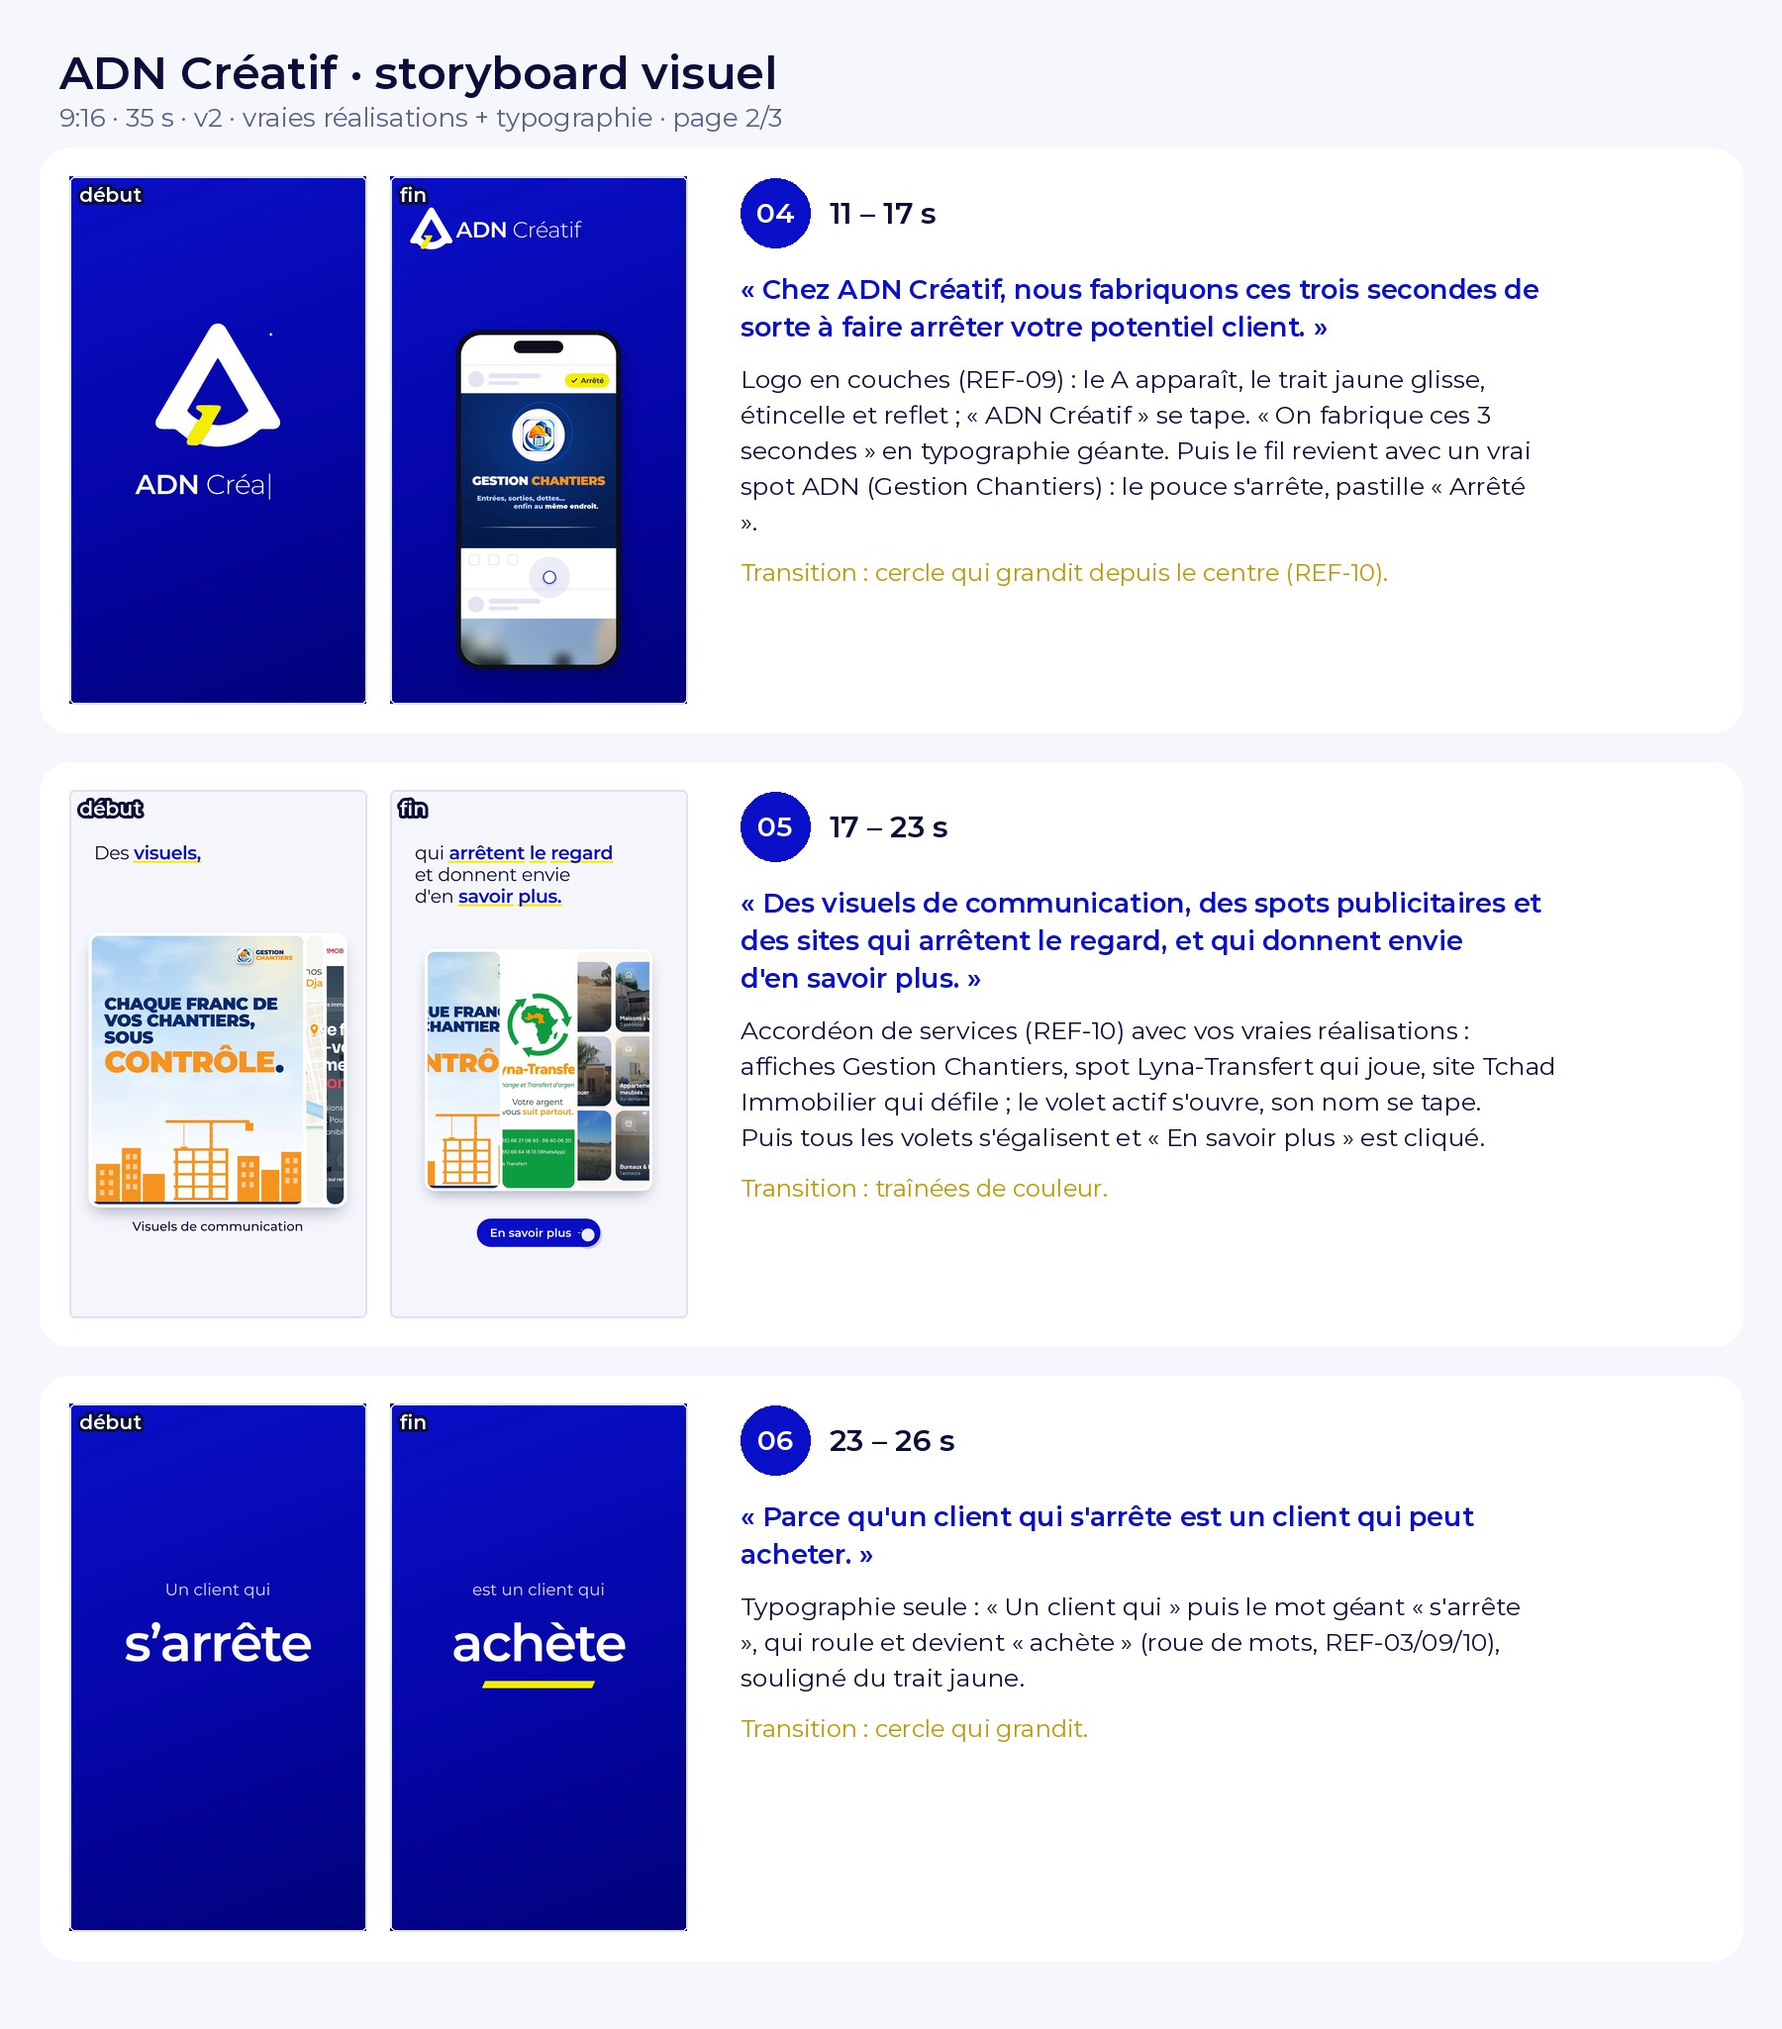
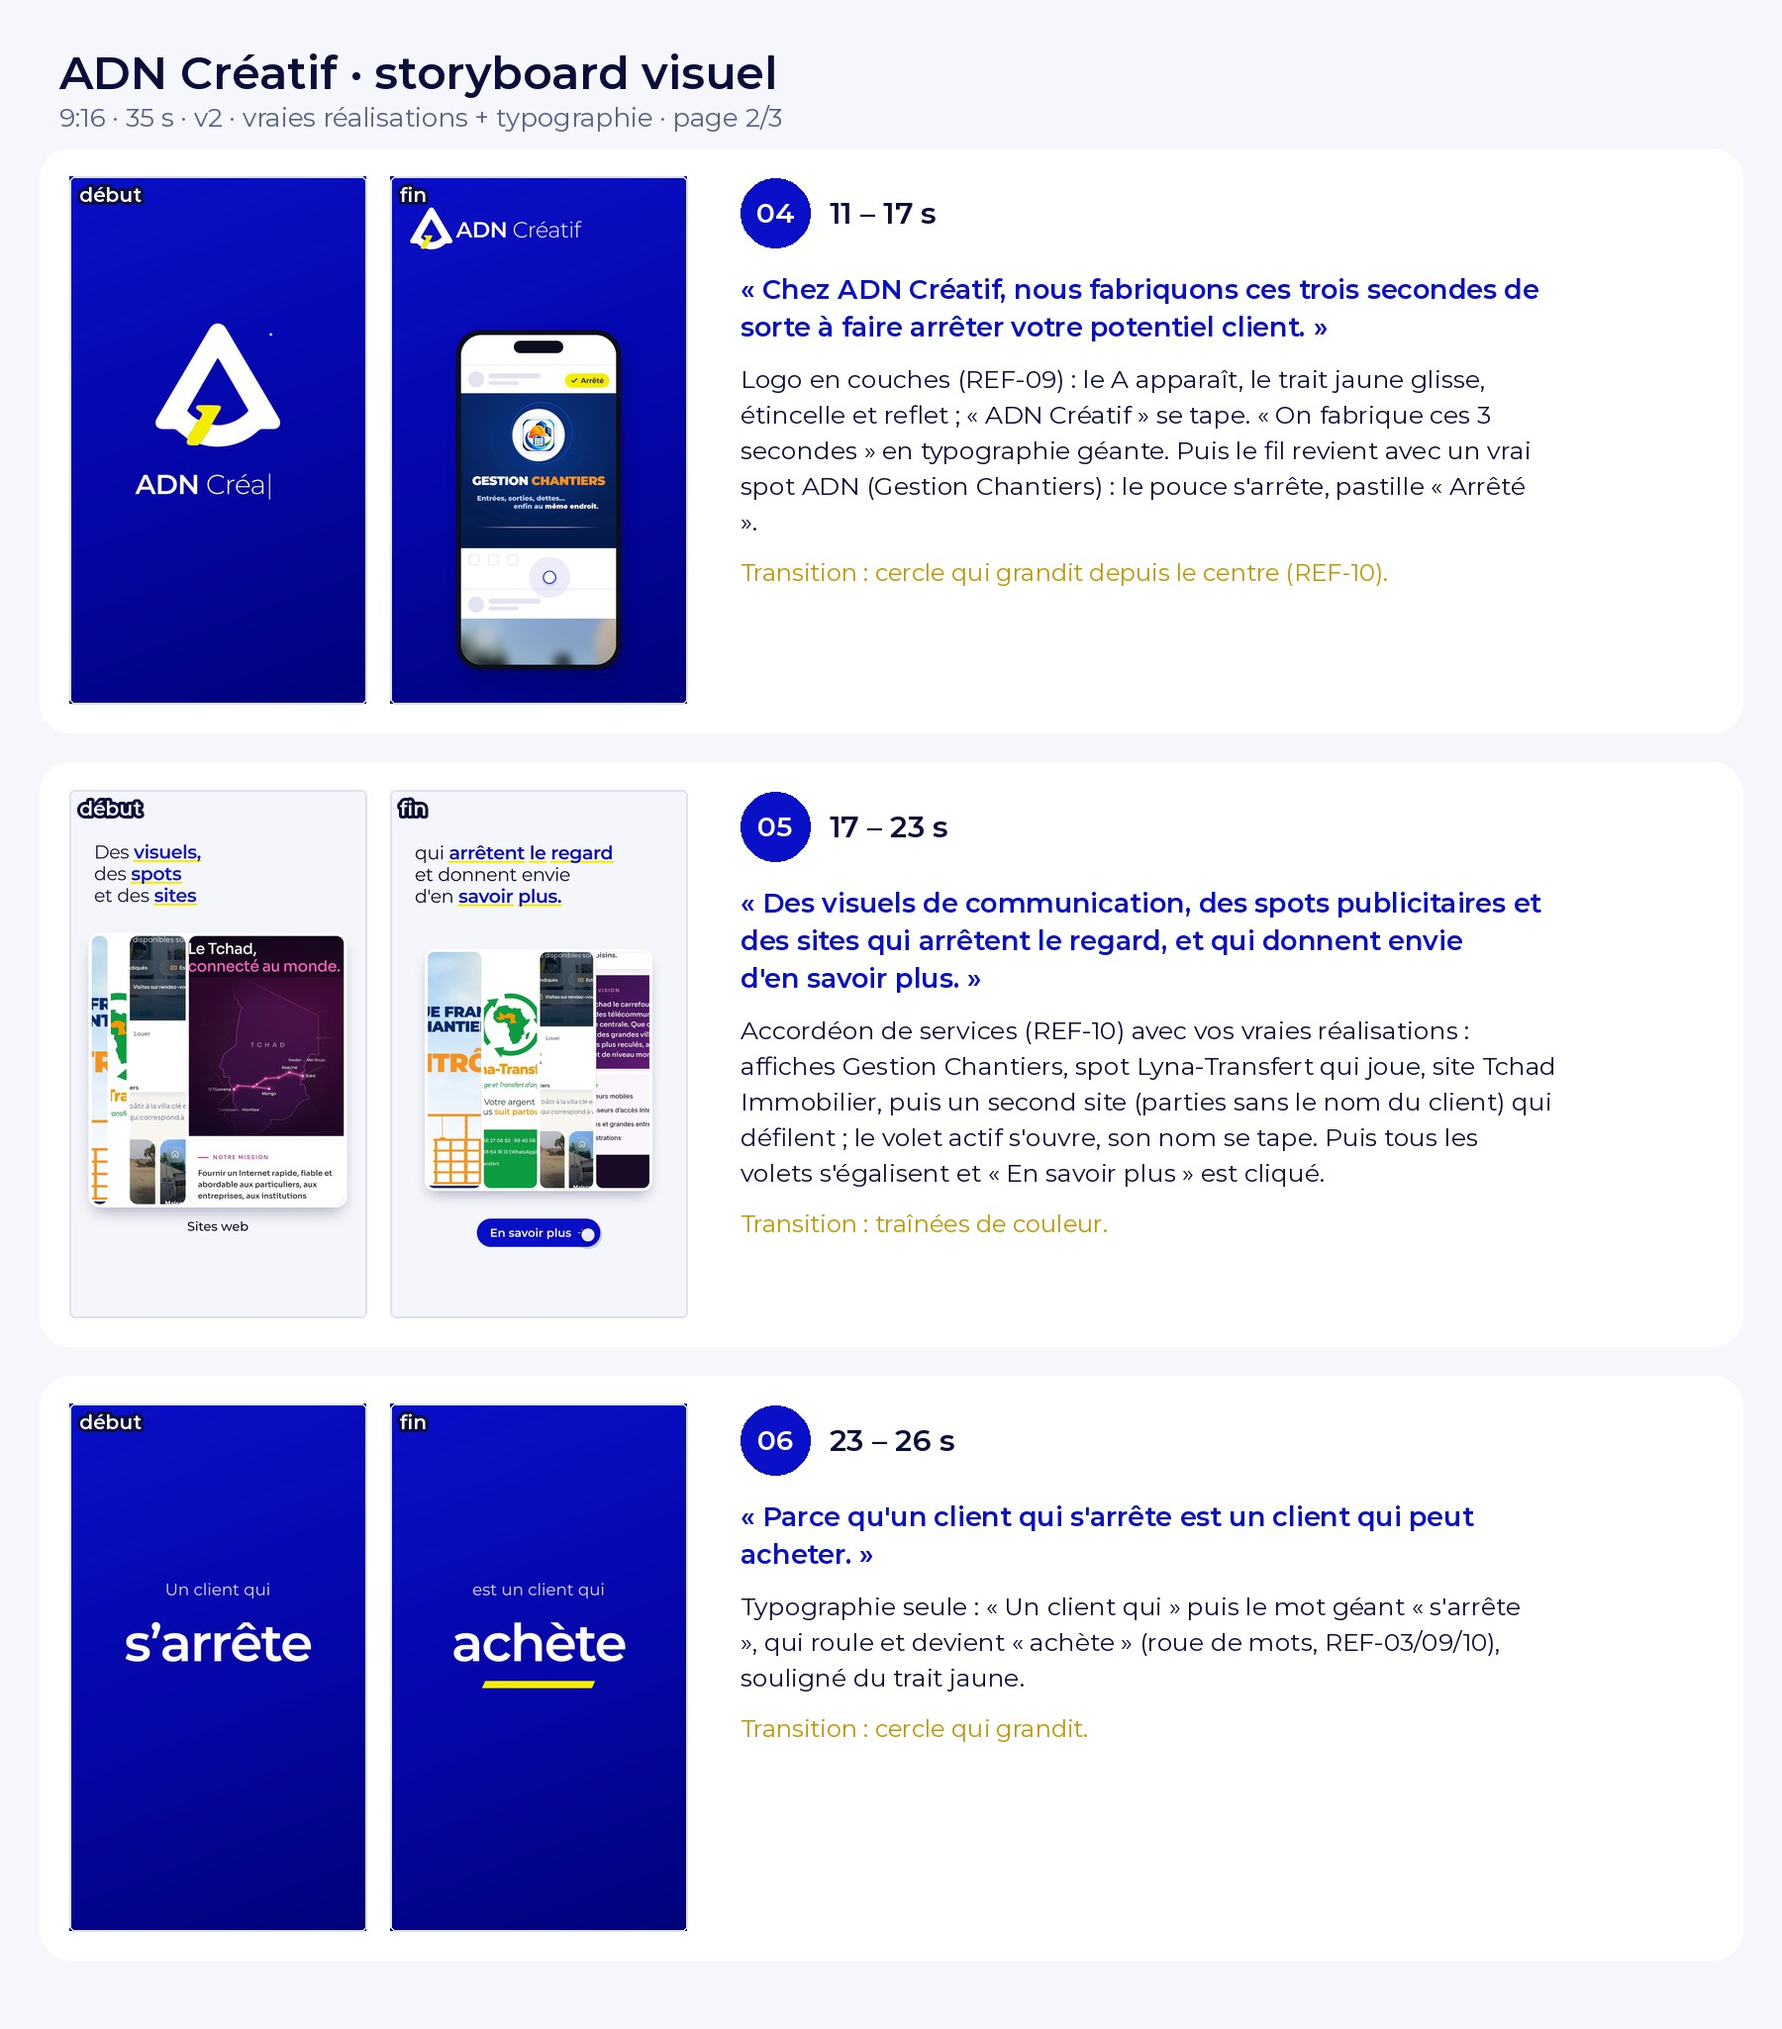
ADN Créatif : second site (parties sans le nom du client) dans l'accordéon
Claude-Session: https://claude.ai/code/session_01Xjhu3ogamcFfekHqPkLUiU

Changed region(s): [[0.0311, 0.4059, 0.3733, 0.6244], [0.4044, 0.5307, 0.84, 0.6244]]

diff --git a/video/src/adn/scenes.tsx b/video/src/adn/scenes.tsx
@@ -268,6 +268,7 @@ const SVC = [
   { at: v(16.22), label: 'Visuels de communication' },
   { at: v(17.9), label: 'Spots publicitaires' },
   { at: v(19.2), label: 'Sites web' },
+  { at: v(19.95), label: 'Sites web' }, // second site : parties sans le nom du client
 ];
 const MORE = v(21.14);
 const RECAP = v(19.4) + 30;
@@ -286,10 +287,11 @@ const Volet: React.FC<{ i: number; f: number }> = ({ i, f }) => {
     );
   }
   if (i === 1) return <OffthreadVideo src={staticFile('adn/spot-lyna.mp4')} startFrom={20} muted style={{ width: '100%', height: '100%', objectFit: 'cover' }} />;
-  const scroll = interpolate(f, [SVC[2].at + 8, SVC[2].at + 40, MORE, MORE + 20], [0, 900, 900, 1400], { ...clamp, easing: ease.inOut });
+  const s0 = SVC[i].at;
+  const scroll = i === 2 ? interpolate(f, [s0 + 6, s0 + 22], [0, 700], { ...clamp, easing: ease.inOut }) : interpolate(f, [s0 + 6, s0 + 30, MORE, MORE + 20], [0, 560, 560, 1100], { ...clamp, easing: ease.inOut });
   return (
-    <AbsoluteFill style={{ background: C.white, overflow: 'hidden' }}>
-      <Img src={staticFile('adn/site-immo.jpg')} style={{ position: 'absolute', left: '50%', width: 620, marginLeft: -310, top: -scroll }} />
+    <AbsoluteFill style={{ background: i === 3 ? '#1A0B26' : C.white, overflow: 'hidden' }}>
+      <Img src={staticFile(i === 2 ? 'adn/site-immo.jpg' : 'adn/site-telecom.jpg')} style={{ position: 'absolute', left: '50%', width: 620, marginLeft: -310, top: -scroll }} />
     </AbsoluteFill>
   );
 };
@@ -303,7 +305,7 @@ export const S5: React.FC<P> = ({ f }) => {
   const more = sp(f, MORE + 18, 'pose');
   const click = t(f, MORE + 34, MORE + 38) - t(f, MORE + 38, MORE + 46);
   const grow = SVC.map((_, i) => {
-    const active = interpolate(f, [SVC[i].at - 4, SVC[i].at + 10], [0, 1], { ...clamp, easing: ease.inOut }) * (i < 2 ? 1 - interpolate(f, [SVC[i + 1].at - 4, SVC[i + 1].at + 10], [0, 1], { ...clamp, easing: ease.inOut }) : 1);
+    const active = interpolate(f, [SVC[i].at - 4, SVC[i].at + 10], [0, 1], { ...clamp, easing: ease.inOut }) * (i < SVC.length - 1 ? 1 - interpolate(f, [SVC[i + 1].at - 4, SVC[i + 1].at + 10], [0, 1], { ...clamp, easing: ease.inOut }) : 1);
     return interpolate(eq, [0, 1], [0.35 + 4 * active, 1]);
   });
   return (
@@ -312,14 +314,14 @@ export const S5: React.FC<P> = ({ f }) => {
       <Title f={f} top={190} size={68} lines={[{ text: 'qui *arrêtent le regard*', at: RECAP }, { text: 'et donnent envie', at: MORE }, { text: "d'en *savoir plus.*", at: MORE + 12 }]} />
       <div style={{ position: 'absolute', left: 70, top: 520, width: 940, height: 1000, transform: `translateY(${(1 - cardIn) * 1200}px) scale(${1 - eq * 0.12})`, display: 'flex', gap: 12, padding: 12, borderRadius: 40, background: C.white, boxShadow: '0 30px 60px -20px rgba(5,8,60,0.35)' }}>
         {SVC.map((s, i) => (
-          <div key={s.label} style={{ flexGrow: grow[i], flexBasis: 0, position: 'relative', borderRadius: 28, overflow: 'hidden', background: C.line }}>
+          <div key={i} style={{ flexGrow: grow[i], flexBasis: 0, position: 'relative', borderRadius: 28, overflow: 'hidden', background: C.line }}>
             <Volet i={i} f={f} />
           </div>
         ))}
       </div>
       {/* libellé du service actif, tapé sous la carte */}
       <div style={{ position: 'absolute', left: 0, top: 1560, width: W, textAlign: 'center', fontFamily: FONT.title, fontWeight: 500, fontSize: 46, color: C.ink, opacity: 1 - eq }}>
-        {idx >= 0 ? <Typed f={f} at={SVC[idx].at + 2} text={SVC[idx].label} step={1.2} /> : null}
+        {idx >= 0 ? <Typed f={f} at={SVC[Math.min(idx, 2)].at + 2} text={SVC[idx].label} step={1.2} /> : null}
       </div>
       <div style={{ position: 'absolute', left: 540, top: 1560, transform: `translate(-50%, 0) scale(${more * (1 - click * 0.08)})`, display: 'flex', alignItems: 'center', gap: 16, padding: '26px 48px', borderRadius: 70, background: C.blue, color: C.white, fontFamily: FONT.title, fontWeight: 600, fontSize: 42 }}>
         En savoir plus <ArrowRight size={42} color={C.yellow} />

diff --git a/video/scripts/storyboard_adn.py b/video/scripts/storyboard_adn.py
@@ -26,7 +26,7 @@ SCENES = [
      'Logo en couches (REF-09) : le A apparaît, le trait jaune glisse, étincelle et reflet ; « ADN Créatif » se tape. « On fabrique ces 3 secondes » en typographie géante. Puis le fil revient avec un vrai spot ADN (Gestion Chantiers) : le pouce s\'arrête, pastille « Arrêté ».',
      'Transition : cercle qui grandit depuis le centre (REF-10).'),
     ('05', '17 – 23 s', (540, 690), "« Des visuels de communication, des spots publicitaires et des sites qui arrêtent le regard, et qui donnent envie d'en savoir plus. »",
-     'Accordéon de services (REF-10) avec vos vraies réalisations : affiches Gestion Chantiers, spot Lyna-Transfert qui joue, site Tchad Immobilier qui défile ; le volet actif s\'ouvre, son nom se tape. Puis tous les volets s\'égalisent et « En savoir plus » est cliqué.',
+     'Accordéon de services (REF-10) avec vos vraies réalisations : affiches Gestion Chantiers, spot Lyna-Transfert qui joue, site Tchad Immobilier, puis un second site (parties sans le nom du client) qui défilent ; le volet actif s\'ouvre, son nom se tape. Puis tous les volets s\'égalisent et « En savoir plus » est cliqué.',
      'Transition : traînées de couleur.'),
     ('06', '23 – 26 s', (740, 790), "« Parce qu'un client qui s'arrête est un client qui peut acheter. »",
      'Typographie seule : « Un client qui » puis le mot géant « s\'arrête », qui roule et devient « achète » (roue de mots, REF-03/09/10), souligné du trait jaune.',
